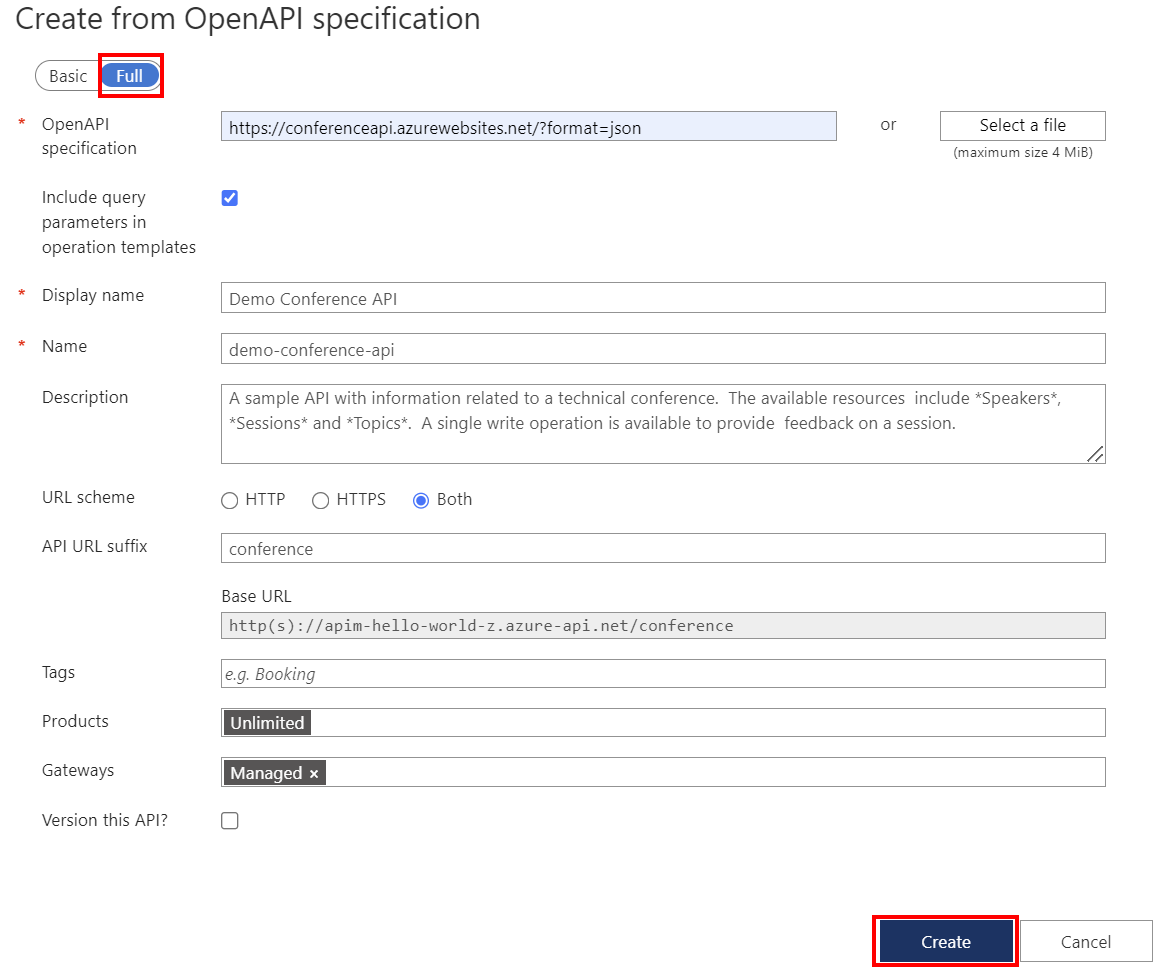
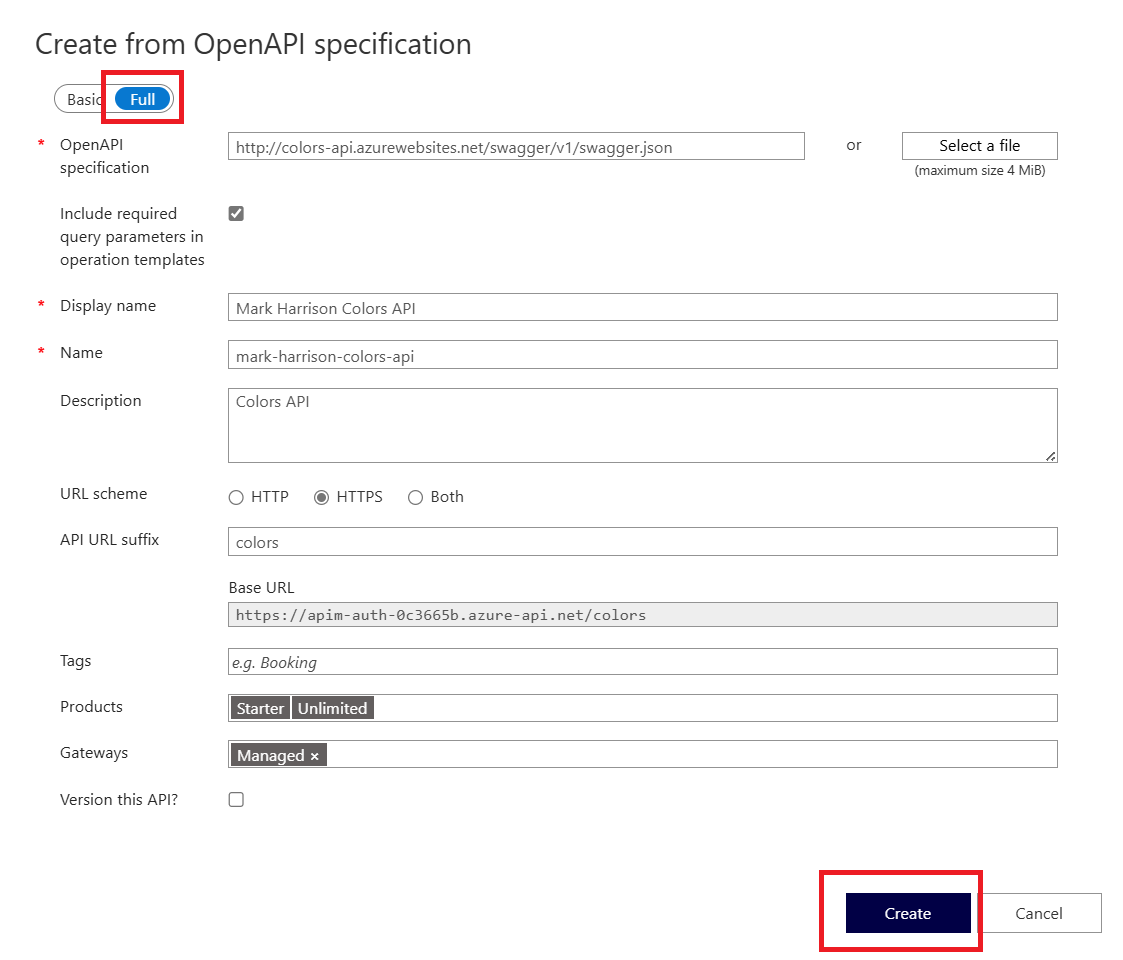
changing step 1

diff --git a/README.md b/README.md
@@ -62,7 +62,7 @@ az apim create --name $apim --resource-group $resourceGroup \
 ```
 
 ## Import an API in APIM
-For this demo, we will use Confere API (https://conferenceapi.azurewebsites.net), a backend API for demos proposed, provided by Microsoft. Use this guide [Tutorial: Import and publish your first API](https://learn.microsoft.com/en-us/azure/api-management/import-and-publish) for more details if need to import API to your API Management.
+For this demo, we will use Colors API (https://colors-api.azurewebsites.net), a backend API for demos proposed, provided by Mark Harrison. Use this guide [Tutorial: Import and publish your first API](https://learn.microsoft.com/en-us/azure/api-management/import-and-publish) for more details if need to import API to your API Management.
 
 
 1. In the Azure portal, search for and select API Management services.
@@ -71,18 +71,17 @@ For this demo, we will use Confere API (https://conferenceapi.azurewebsites.net)
 1. Select the **OpenAPI** tile.
 1. In the Create from OpenAPI specification window, select Full.
 1. Enter the values from the following table.
-1. Click Save
+1. Click Create
 
 ![Topology](./media/apim2.png)
 
 |Setting|Value|
 |-------|-----|
-|**OpenAPI specification**|*https:\//conferenceapi.azurewebsites.net?format=json*|
+|**OpenAPI specification**|*https:\//colors-api.azurewebsites.net/swagger/v1/swagger.json*|
 |**Display name**|After you enter the OpenAPI specification URL, API Management fills out this field based on the JSON.|
 |**Name**|After you enter the OpenAPI specification URL, API Management fills out this field based on the JSON.|
-|**Products**|**Unlimited**|
+|**Products**|**Unlimited** / **Starter**|
 |**Gateways**|**Managed**|
-|**Subscription required**|**Unchecked**|
 
 
 After you import, lets uncheck the option of subscription required. 
